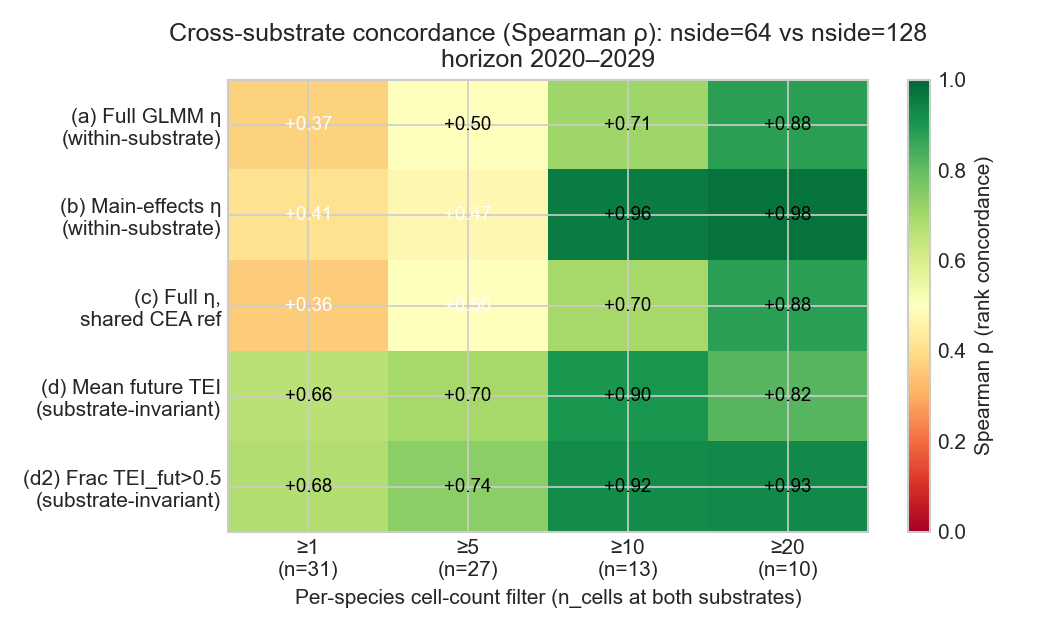
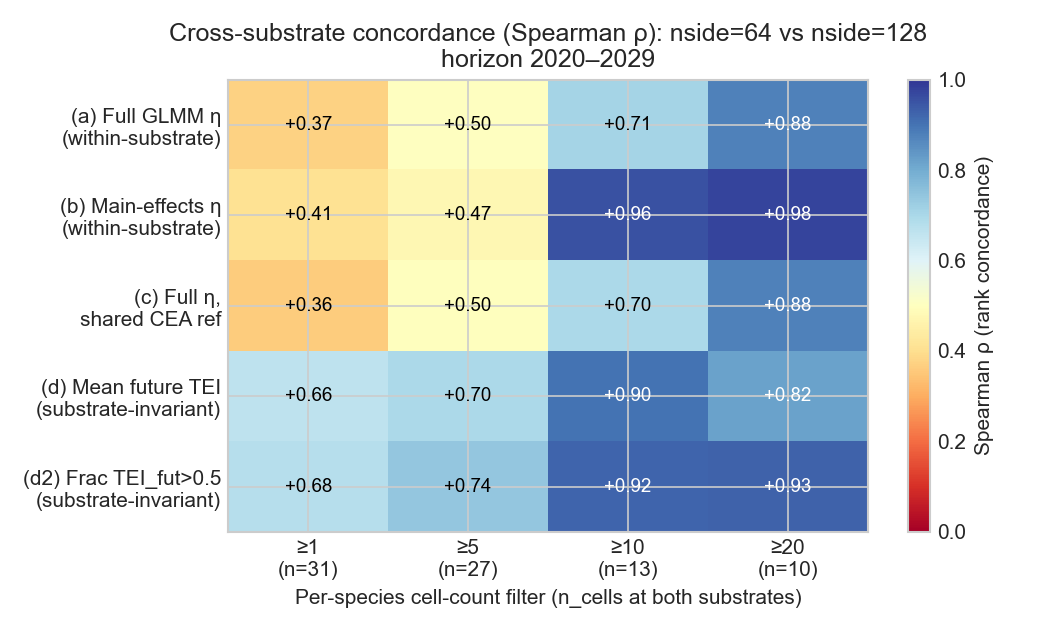
Figures: switch to colorblind-safe palettes (Okabe-Ito + RdYlBu) (sync from upstream)

diff --git a/scripts/plot_variant_concordance.py b/scripts/plot_variant_concordance.py
@@ -46,7 +46,9 @@ def main(horizon: str):
                 rho_grid[i, j] = r
 
     fig, ax = plt.subplots(figsize=(7.0, 4.2), dpi=150)
-    im = ax.imshow(rho_grid, vmin=0.0, vmax=1.0, cmap="RdYlGn", aspect="auto")
+    # RdYlBu is ColorBrewer's colorblind-safe red-to-blue diverging:
+    # low concordance (vmin=0) = red (bad); high concordance (vmax=1) = blue (good).
+    im = ax.imshow(rho_grid, vmin=0.0, vmax=1.0, cmap="RdYlBu", aspect="auto")
     ax.set_xticks(range(len(n_filters)))
     ax.set_xticklabels(
         [f"≥{n}\n(n={ns})" for n, ns in zip(n_filters, n_species_per_filter)]
@@ -62,7 +64,9 @@ def main(horizon: str):
         for j in range(len(n_filters)):
             v = rho_grid[i, j]
             if not np.isnan(v):
-                color = "white" if v < 0.5 else "black"
+                # RdYlBu is dark at both ends (red, blue), light in the
+                # middle (yellow). White text on dark, black text on light.
+                color = "white" if (v < 0.30 or v > 0.75) else "black"
                 ax.text(j, i, f"{v:+.2f}", ha="center", va="center", color=color, fontsize=9)
     cbar = fig.colorbar(im, ax=ax, label="Spearman ρ (rank concordance)")
     fig.tight_layout()
@@ -87,7 +91,10 @@ def main(horizon: str):
     n_min = np.minimum(df["n_cells_64"], df["n_cells_128"]).astype(float)
     n_top = float(max(n_min.max(), 20)) + 1
     bin_edges = [1, 5, 10, 20, n_top]
-    bin_colors = ["#d73027", "#fdae61", "#a6d96a", "#1a9850"]
+    # Okabe–Ito palette — colorblind-safe across deuteranopia, protanopia,
+    # tritanopia, AND luminance-distinguishable in grayscale. Warm-to-cool
+    # progression preserves the "bad → good" reading order.
+    bin_colors = ["#D55E00", "#E69F00", "#56B4E9", "#0072B2"]
     bin_labels = ["n<5\n(unreliable)", "n=5–9\n(borderline)", "n=10–19\n(reliable)", "n≥20\n(very reliable)"]
     cmap = plt.matplotlib.colors.ListedColormap(bin_colors)
     norm = plt.matplotlib.colors.BoundaryNorm(bin_edges, cmap.N)
